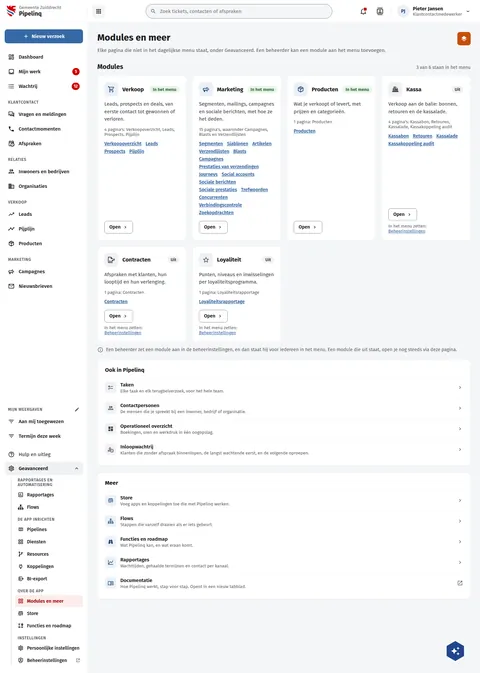
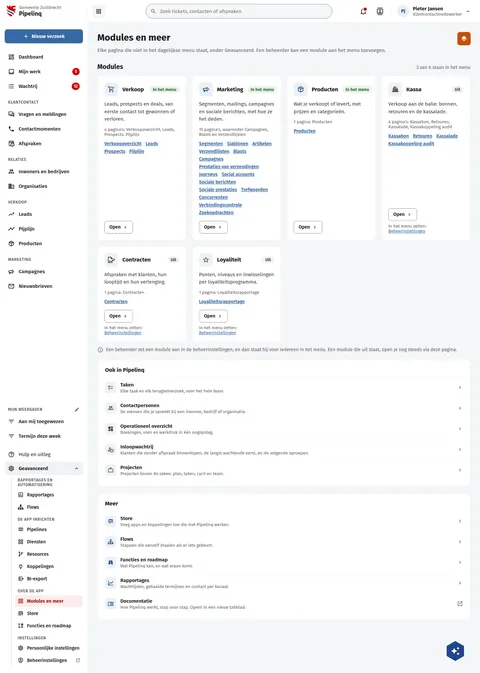
fix(screens): PqReports draws SLA-realisatie, PqModules draws Projecten
Users keep features: pipelinq offers the SLA attainment report (appended to
the reports page in the simple profile) and the Projects page (Also in
Pipelinq on the Modules page). The boards now draw them: SLA-realisatie under
Mensen en prestaties (9 reports in 5 categories), Projecten as the fifth row
of Ook in Pipelinq.

Assisted-by: ClaudeCode:claude-opus-5-5

diff --git a/preview/screens/boards/PqReports.html b/preview/screens/boards/PqReports.html
@@ -237,17 +237,17 @@ a{color:var(--sc-primary, #3669a5)}a:hover{color:var(--sc-primary-deep, #234a78)
           </div>
         </div>
         <div style="display: flex; flex-direction: column; gap: 6px; min-width: 0">
-          <span style="font-size: 15px; color: var(--sc-work-muted, #5e6168)">Elke rapportage van Pipelinq, 8 rapportages in 5 categorieën</span>
+          <span style="font-size: 15px; color: var(--sc-work-muted, #5e6168)">Elke rapportage van Pipelinq, 9 rapportages in 5 categorieën</span>
         </div>
       </section>
         <div style="display: flex; flex-wrap: wrap; align-items: center; gap: 12px 16px">
           <div role="group" aria-label="Categorie" style="display: flex; flex-wrap: wrap; gap: 8px; flex: 1 1 auto">
             
-              <button type="button" aria-pressed="true" style="display: inline-flex; align-items: center; gap: 8px; height: 36px; padding: 0 14px; border-radius: 18px; font: 600 14px var(--sc-font, 'Fira Sans'), sans-serif; cursor: pointer; border: 0; background: var(--sc-work-ink, #1b1c1d); color: #ffffff;">Alle categorieën<span style="font-weight: 400; color: #d6d9de;">8</span></button>
+              <button type="button" aria-pressed="true" style="display: inline-flex; align-items: center; gap: 8px; height: 36px; padding: 0 14px; border-radius: 18px; font: 600 14px var(--sc-font, 'Fira Sans'), sans-serif; cursor: pointer; border: 0; background: var(--sc-work-ink, #1b1c1d); color: #ffffff;">Alle categorieën<span style="font-weight: 400; color: #d6d9de;">9</span></button>
             
               <button type="button" aria-pressed="false" style="display: inline-flex; align-items: center; gap: 8px; height: 36px; padding: 0 14px; border-radius: 18px; font: 600 14px var(--sc-font, 'Fira Sans'), sans-serif; cursor: pointer; border: 1px solid var(--sc-work-field, #828a95); background: #ffffff; color: var(--sc-work-ink, #1b1c1d);">Aantallen en kanalen<span style="font-weight: 400; color: var(--sc-work-muted, #5e6168);">3</span></button>
             
-              <button type="button" aria-pressed="false" style="display: inline-flex; align-items: center; gap: 8px; height: 36px; padding: 0 14px; border-radius: 18px; font: 600 14px var(--sc-font, 'Fira Sans'), sans-serif; cursor: pointer; border: 1px solid var(--sc-work-field, #828a95); background: #ffffff; color: var(--sc-work-ink, #1b1c1d);">Mensen en prestaties<span style="font-weight: 400; color: var(--sc-work-muted, #5e6168);">1</span></button>
+              <button type="button" aria-pressed="false" style="display: inline-flex; align-items: center; gap: 8px; height: 36px; padding: 0 14px; border-radius: 18px; font: 600 14px var(--sc-font, 'Fira Sans'), sans-serif; cursor: pointer; border: 1px solid var(--sc-work-field, #828a95); background: #ffffff; color: var(--sc-work-ink, #1b1c1d);">Mensen en prestaties<span style="font-weight: 400; color: var(--sc-work-muted, #5e6168);">2</span></button>
             
               <button type="button" aria-pressed="false" style="display: inline-flex; align-items: center; gap: 8px; height: 36px; padding: 0 14px; border-radius: 18px; font: 600 14px var(--sc-font, 'Fira Sans'), sans-serif; cursor: pointer; border: 1px solid var(--sc-work-field, #828a95); background: #ffffff; color: var(--sc-work-ink, #1b1c1d);">Omzet en prognose<span style="font-weight: 400; color: var(--sc-work-muted, #5e6168);">1</span></button>
             
@@ -323,6 +323,20 @@ a{color:var(--sc-primary, #3669a5)}a:hover{color:var(--sc-primary-deep, #234a78)
                 <div style="margin-top: auto; padding-top: 10px; border-top: 1px solid var(--sc-work-soft, #eef0f3); display: flex; flex-wrap: wrap; align-items: center; justify-content: space-between; gap: 8px; min-height: 34px">
                   <span style="flex: 1 1 auto; font-size: 13px; color: var(--sc-work-muted, #5e6168)">Opent een eigen pagina</span>
                   <a href="#" aria-label="Open Prestaties medewerkers" style="display: inline-flex; align-items: center; height: 34px; padding: 0 12px; border: 1px solid var(--sc-work-field, #828a95); border-radius: 8px; background: #ffffff; color: var(--sc-work-ink, #1b1c1d); text-decoration: none; font: 600 14px var(--sc-font, 'Fira Sans'), sans-serif">Open</a>
+                  
+                </div>
+              </article>
+                  
+              <article style="background: #ffffff; border: 1px solid var(--sc-work-line, #e4e6ea); border-radius: 12px; padding: 18px; display: flex; flex-direction: column; gap: 10px">
+                <div style="display: flex; align-items: flex-start; gap: 12px">
+                  <span style="width: 40px; height: 40px; flex: none; border-radius: 10px; background: var(--sc-primary-light, #eaf0f7); color: var(--sc-primary-deep, #234a78); display: inline-flex; align-items: center; justify-content: center"><svg width="20" height="20" viewbox="0 0 24 24" fill="currentColor" aria-hidden="true"><path d="M16,11.78L20.24,4.45L21.97,5.45L16.74,14.5L10.23,10.75L5.46,19H22V21H2V3H4V17.54L9.5,8L16,11.78Z"></path></svg></span>
+                  <div style="flex: 1; min-width: 0; display: flex; flex-direction: column; align-items: flex-start; gap: 4px"><h3 style="margin: 0; font-size: 17px; font-weight: 700; line-height: 1.3">SLA-realisatie</h3><span style="font-size: 13px; color: var(--sc-work-muted, #5e6168)">Mensen en prestaties</span></div>
+                </div>
+                <p style="margin: 0; font-size: 14px; line-height: 1.5; color: var(--sc-work-text, #3d4047)">Hoeveel tickets binnen hun termijn zijn beantwoord.</p>
+                
+                <div style="margin-top: auto; padding-top: 10px; border-top: 1px solid var(--sc-work-soft, #eef0f3); display: flex; flex-wrap: wrap; align-items: center; justify-content: space-between; gap: 8px; min-height: 34px">
+                  <span style="flex: 1 1 auto; font-size: 13px; color: var(--sc-work-muted, #5e6168)">Opent een eigen pagina</span>
+                  <a href="#" aria-label="Open SLA-realisatie" style="display: inline-flex; align-items: center; height: 34px; padding: 0 12px; border: 1px solid var(--sc-work-field, #828a95); border-radius: 8px; background: #ffffff; color: var(--sc-work-ink, #1b1c1d); text-decoration: none; font: 600 14px var(--sc-font, 'Fira Sans'), sans-serif">Open</a>
                   
                 </div>
               </article>
@@ -415,7 +429,7 @@ a{color:var(--sc-primary, #3669a5)}a:hover{color:var(--sc-primary-deep, #234a78)
                 
                   <li style="border-top: 1px solid var(--sc-work-soft, #eef0f3)"><a href="#rep-volume" style="display: flex; align-items: center; gap: 8px; padding: 8px 0; font-size: 14px; color: var(--sc-work-ink, #1b1c1d); text-decoration: none"><span style="flex: 1">Aantallen en kanalen</span><span style="font-size: 13px; color: var(--sc-work-muted, #5e6168)">3</span></a></li>
                 
-                  <li style="border-top: 1px solid var(--sc-work-soft, #eef0f3)"><a href="#rep-people" style="display: flex; align-items: center; gap: 8px; padding: 8px 0; font-size: 14px; color: var(--sc-work-ink, #1b1c1d); text-decoration: none"><span style="flex: 1">Mensen en prestaties</span><span style="font-size: 13px; color: var(--sc-work-muted, #5e6168)">1</span></a></li>
+                  <li style="border-top: 1px solid var(--sc-work-soft, #eef0f3)"><a href="#rep-people" style="display: flex; align-items: center; gap: 8px; padding: 8px 0; font-size: 14px; color: var(--sc-work-ink, #1b1c1d); text-decoration: none"><span style="flex: 1">Mensen en prestaties</span><span style="font-size: 13px; color: var(--sc-work-muted, #5e6168)">2</span></a></li>
                 
                   <li style="border-top: 1px solid var(--sc-work-soft, #eef0f3)"><a href="#rep-revenue" style="display: flex; align-items: center; gap: 8px; padding: 8px 0; font-size: 14px; color: var(--sc-work-ink, #1b1c1d); text-decoration: none"><span style="flex: 1">Omzet en prognose</span><span style="font-size: 13px; color: var(--sc-work-muted, #5e6168)">1</span></a></li>
                 

diff --git a/screens-src/zuiddrecht/PqReports.dc.html b/screens-src/zuiddrecht/PqReports.dc.html
@@ -29,7 +29,7 @@ a{color:#3669a5}a:hover{color:#234a78}
           </div>
         </div>
         <div style="display: flex; flex-direction: column; gap: 6px; min-width: 0">
-          <span style="font-size: 15px; color: #5e6168">Elke rapportage van Pipelinq, 8 rapportages in 5 categorieën</span>
+          <span style="font-size: 15px; color: #5e6168">Elke rapportage van Pipelinq, 9 rapportages in 5 categorieën</span>
         </div>
       </section>
         <div style="display: flex; flex-wrap: wrap; align-items: center; gap: 12px 16px">
@@ -118,6 +118,7 @@ class Component extends DCLogic {
       ['Contactrapportage', 'Hoeveel contacten binnenkwamen, en waarover.', 'M13.07 10.41A5 5 0 0 0 13.07 4.59A3.39 3.39 0 0 1 15 4A3.5 3.5 0 0 1 15 11A3.39 3.39 0 0 1 13.07 10.41M5.5 7.5A3.5 3.5 0 1 1 9 11A3.5 3.5 0 0 1 5.5 7.5M7.5 7.5A1.5 1.5 0 1 0 9 6A1.5 1.5 0 0 0 7.5 7.5M16 17V19H2V17S2 13 9 13 16 17 16 17M14 17C13.86 16.22 12.67 15 9 15S4.07 16.31 4 17M15.95 13A5.32 5.32 0 0 1 18 17V19H22V17S22 13.37 15.94 13Z', 'volume'],
       ['Kanaalanalyse', 'Via welke kanalen mensen je bereiken, en hoe dat verschuift.', 'M16,11.78L20.24,4.45L21.97,5.45L16.74,14.5L10.23,10.75L5.46,19H22V21H2V3H4V17.54L9.5,8L16,11.78Z', 'volume'],
       ['Prestaties medewerkers', 'Afhandeltijden en werkdruk per medewerker.', 'M12,5.5A3.5,3.5 0 0,1 15.5,9A3.5,3.5 0 0,1 12,12.5A3.5,3.5 0 0,1 8.5,9A3.5,3.5 0 0,1 12,5.5M5,8C5.56,8 6.08,8.15 6.53,8.42C6.38,9.85 6.8,11.27 7.66,12.38C7.16,13.34 6.16,14 5,14A3,3 0 0,1 2,11A3,3 0 0,1 5,8M19,8A3,3 0 0,1 22,11A3,3 0 0,1 19,14C17.84,14 16.84,13.34 16.34,12.38C17.2,11.27 17.62,9.85 17.47,8.42C17.92,8.15 18.44,8 19,8M5.5,18.25C5.5,16.18 8.41,14.5 12,14.5C15.59,14.5 18.5,16.18 18.5,18.25V20H5.5V18.25M0,20V18.5C0,17.11 1.89,15.94 4.45,15.6C3.86,16.28 3.5,17.22 3.5,18.25V20H0M24,20H20.5V18.25C20.5,17.22 20.14,16.28 19.55,15.6C22.11,15.94 24,17.11 24,18.5V20Z', 'people'],
+      ['SLA-realisatie', 'Hoeveel tickets binnen hun termijn zijn beantwoord.', 'M16,11.78L20.24,4.45L21.97,5.45L16.74,14.5L10.23,10.75L5.46,19H22V21H2V3H4V17.54L9.5,8L16,11.78Z', 'people'],
       ['Prognose', 'Wat het kwartaal naar verwachting oplevert, per eigenaar.', 'M3,14L3.5,14.07L8.07,9.5C7.89,8.85 8.06,8.11 8.59,7.59C9.37,6.8 10.63,6.8 11.41,7.59C11.94,8.11 12.11,8.85 11.93,9.5L14.5,12.07L15,12C15.18,12 15.35,12 15.5,12.07L19.07,8.5C19,8.35 19,8.18 19,8A2,2 0 0,1 21,6A2,2 0 0,1 23,8A2,2 0 0,1 21,10C20.82,10 20.65,10 20.5,9.93L16.93,13.5C17,13.65 17,13.82 17,14A2,2 0 0,1 15,16A2,2 0 0,1 13,14L13.07,13.5L10.5,10.93C10.18,11 9.82,11 9.5,10.93L4.93,15.5L5,16A2,2 0 0,1 3,18A2,2 0 0,1 1,16A2,2 0 0,1 3,14Z', 'revenue'],
       ['Loyaliteitsrapportage', 'Punten, niveaus en inwisselingen per loyaliteitsprogramma.', 'M12,17.27L18.18,21L16.54,13.97L22,9.24L14.81,8.62L12,2L9.19,8.62L2,9.24L7.45,13.97L5.82,21L12,17.27Z', 'loyalty'],
       ['Campagnerapport', 'Wat een campagne bereikte, wat ze opleverde en wat ze kostte.', 'M12,8H4A2,2 0 0,0 2,10V14A2,2 0 0,0 4,16H5V20A1,1 0 0,0 6,21H8A1,1 0 0,0 9,20V16H12L17,20V4L12,8M15,15.6L13,14H4V10H13L15,8.4V15.6M21.5,12C21.5,13.71 20.54,15.26 19,16V8C20.53,8.75 21.5,10.3 21.5,12Z', 'marketing'],

diff --git a/screens-src/zuiddrecht/PqModules.dc.html b/screens-src/zuiddrecht/PqModules.dc.html
@@ -111,7 +111,8 @@ class Component extends DCLogic {
       { href: 'PqTaken.dc.html', icon: 'M3,5H9V11H3V5M5,7V9H7V7H5M11,7H21V9H11V7M11,15H21V17H11V15M5,20L1.5,16.5L2.91,15.09L5,17.17L9.59,12.59L11,14L5,20Z', label: 'Taken', text: 'Elke taak en elk terugbelverzoek, voor het hele team.' },
       { href: '#', icon: 'M13.07 10.41A5 5 0 0 0 13.07 4.59A3.39 3.39 0 0 1 15 4A3.5 3.5 0 0 1 15 11A3.39 3.39 0 0 1 13.07 10.41M5.5 7.5A3.5 3.5 0 1 1 9 11A3.5 3.5 0 0 1 5.5 7.5M7.5 7.5A1.5 1.5 0 1 0 9 6A1.5 1.5 0 0 0 7.5 7.5M16 17V19H2V17S2 13 9 13 16 17 16 17M14 17C13.86 16.22 12.67 15 9 15S4.07 16.31 4 17M15.95 13A5.32 5.32 0 0 1 18 17V19H22V17S22 13.37 15.94 13Z', label: 'Contactpersonen', text: 'De mensen die je spreekt bij een inwoner, bedrijf of organisatie.' },
       { href: '#', icon: 'M13,3V9H21V3M13,21H21V11H13M3,21H11V15H3M3,13H11V3H3V13Z', label: 'Operationeel overzicht', text: 'Boekingen, uren en werkdruk in één oogopslag.' },
-      { href: 'PqInloop.dc.html', icon: 'M16,14H17.5V16.82L19.94,18.23L19.19,19.53L16,17.69V14M17,12A5,5 0 0,0 12,17A5,5 0 0,0 17,22A5,5 0 0,0 22,17A5,5 0 0,0 17,12M17,10A7,7 0 0,1 24,17A7,7 0 0,1 17,24C14.21,24 11.8,22.36 10.67,20H1V17C1,14.34 6.33,13 9,13C9.6,13 10.34,13.07 11.12,13.2C12.36,11.28 14.53,10 17,10M10,17C10,16.3 10.1,15.62 10.29,15C9.87,14.93 9.43,14.9 9,14.9C6.03,14.9 2.9,16.36 2.9,17V18.1H10.09C10.03,17.74 10,17.37 10,17M9,4A4,4 0 0,1 13,8A4,4 0 0,1 9,12A4,4 0 0,1 5,8A4,4 0 0,1 9,4M9,5.9A2.1,2.1 0 0,0 6.9,8A2.1,2.1 0 0,0 9,10.1A2.1,2.1 0 0,0 11.1,8A2.1,2.1 0 0,0 9,5.9Z', label: 'Inloopwachtrij', text: 'Klanten die zonder afspraak binnenlopen, de langst wachtende eerst, en de volgende oproepen.' }
+      { href: 'PqInloop.dc.html', icon: 'M16,14H17.5V16.82L19.94,18.23L19.19,19.53L16,17.69V14M17,12A5,5 0 0,0 12,17A5,5 0 0,0 17,22A5,5 0 0,0 22,17A5,5 0 0,0 17,12M17,10A7,7 0 0,1 24,17A7,7 0 0,1 17,24C14.21,24 11.8,22.36 10.67,20H1V17C1,14.34 6.33,13 9,13C9.6,13 10.34,13.07 11.12,13.2C12.36,11.28 14.53,10 17,10M10,17C10,16.3 10.1,15.62 10.29,15C9.87,14.93 9.43,14.9 9,14.9C6.03,14.9 2.9,16.36 2.9,17V18.1H10.09C10.03,17.74 10,17.37 10,17M9,4A4,4 0 0,1 13,8A4,4 0 0,1 9,12A4,4 0 0,1 5,8A4,4 0 0,1 9,4M9,5.9A2.1,2.1 0 0,0 6.9,8A2.1,2.1 0 0,0 9,10.1A2.1,2.1 0 0,0 11.1,8A2.1,2.1 0 0,0 9,5.9Z', label: 'Inloopwachtrij', text: 'Klanten die zonder afspraak binnenlopen, de langst wachtende eerst, en de volgende oproepen.' },
+      { href: '#', icon: 'M10,2H14A2,2 0 0,1 16,4V6H20A2,2 0 0,1 22,8V19A2,2 0 0,1 20,21H4C2.89,21 2,20.1 2,19V8C2,6.89 2.89,6 4,6H8V4C8,2.89 8.89,2 10,2M14,6V4H10V6H14M4,8V19H20V8H4Z', label: 'Projecten', text: 'Projecten boven de zaken: plan, taken, cycli en team.' }
     ];
     const next = 'M8.59,16.58L13.17,12L8.59,7.41L10,6L16,12L10,18L8.59,16.58Z';
     const more = [

diff --git a/preview/screens/boards/PqModules.html b/preview/screens/boards/PqModules.html
@@ -368,6 +368,12 @@ a{color:var(--sc-primary, #3669a5)}a:hover{color:var(--sc-primary-deep, #234a78)
               <svg width="18" height="18" viewbox="0 0 24 24" fill="#5e6168" style="flex: none;fill:var(--sc-work-muted, #5e6168)"><path d="M8.59,16.58L13.17,12L8.59,7.41L10,6L16,12L10,18L8.59,16.58Z"></path></svg>
             </a>
           
+            <a href="#" style="display: flex; gap: 12px; align-items: center; padding: 10px 0; border-top: 1px solid var(--sc-work-soft, #eef0f3); color: var(--sc-work-ink, #1b1c1d); text-decoration: none">
+              <span style="width: 34px; height: 34px; flex: none; border-radius: 8px; background: var(--sc-work-chip, #f0f1f3); color: var(--sc-work-text, #3d4047); display: flex; align-items: center; justify-content: center"><svg width="18" height="18" viewbox="0 0 24 24" fill="currentColor"><path d="M10,2H14A2,2 0 0,1 16,4V6H20A2,2 0 0,1 22,8V19A2,2 0 0,1 20,21H4C2.89,21 2,20.1 2,19V8C2,6.89 2.89,6 4,6H8V4C8,2.89 8.89,2 10,2M14,6V4H10V6H14M4,8V19H20V8H4Z"></path></svg></span>
+              <span style="flex: 1 1 auto; display: flex; flex-direction: column; gap: 2px"><strong style="font-size: 15px; font-weight: 600">Projecten</strong><span style="font-size: 13px; color: var(--sc-work-muted, #5e6168)">Projecten boven de zaken: plan, taken, cycli en team.</span></span>
+              <svg width="18" height="18" viewbox="0 0 24 24" fill="#5e6168" style="flex: none;fill:var(--sc-work-muted, #5e6168)"><path d="M8.59,16.58L13.17,12L8.59,7.41L10,6L16,12L10,18L8.59,16.58Z"></path></svg>
+            </a>
+          
         </section>
 
         <section aria-labelledby="pq-more" style="background: #ffffff; border: 1px solid var(--sc-work-line, #e4e6ea); border-radius: 12px; padding: 20px 22px; display: flex; flex-direction: column; gap: 6px">
